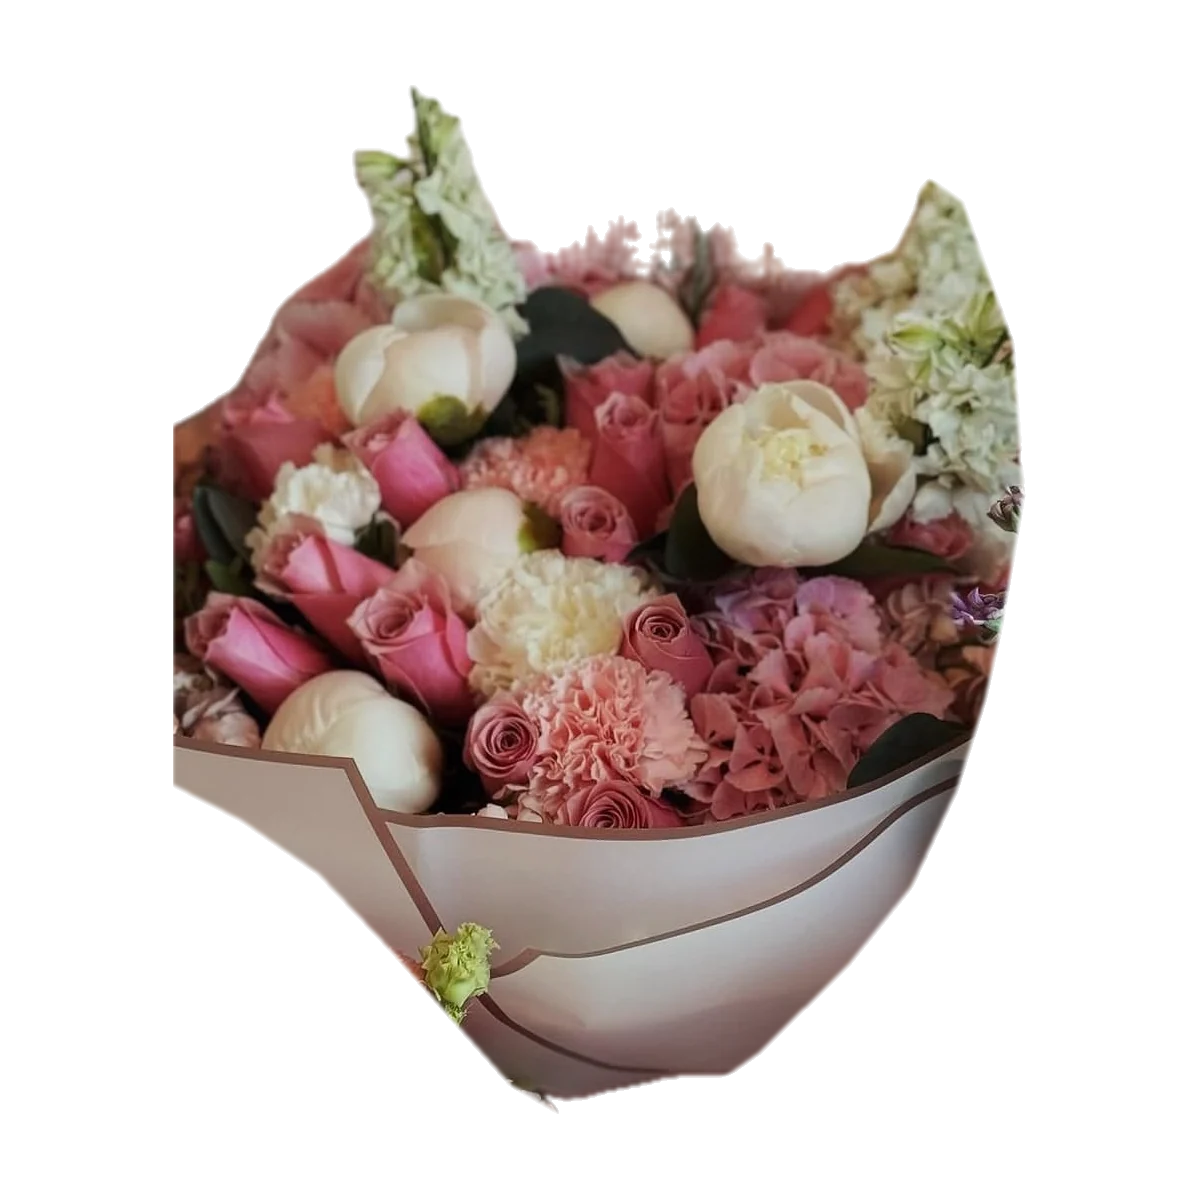
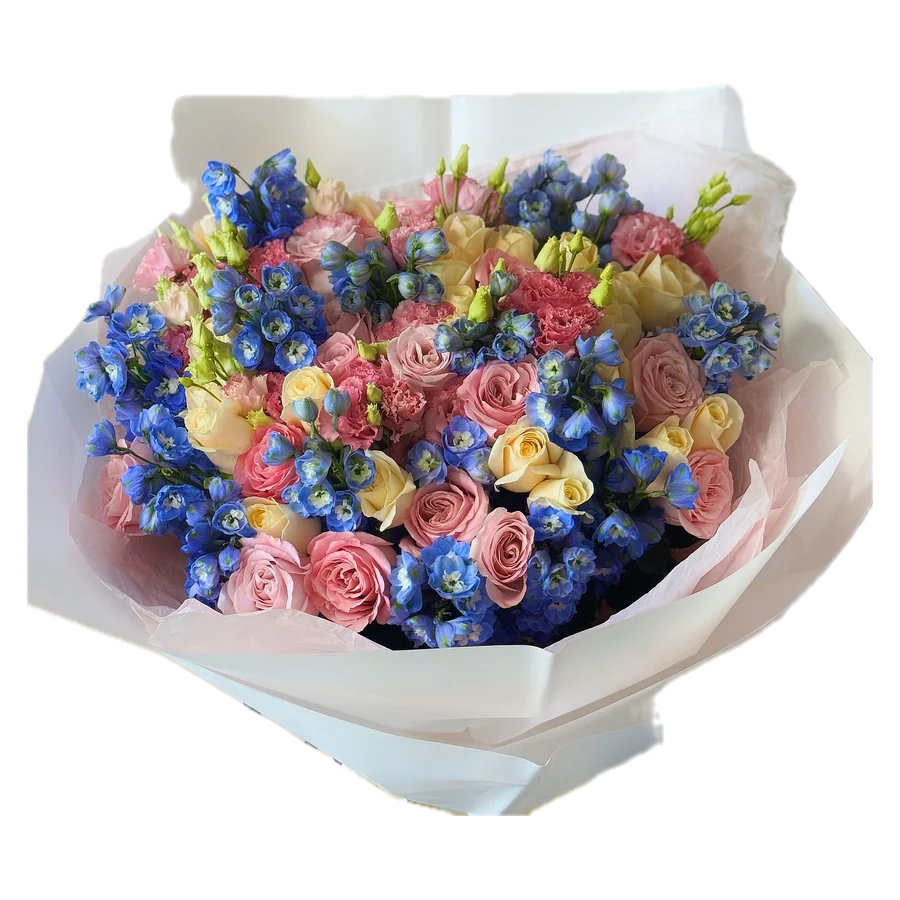
Alle vier Kategoriekacheln freigestellt, „Ukrainian touch“ statt „hand“
Dopamin und Rosen waren die letzten beiden Kacheln aus 1125-px-Bildschirm-
fotos. Beide jetzt freigestellt wie die anderen, und aus den vollen Originalen.

Zwei Anläufe waren nötig. Die Bildschirmfotos selbst freizustellen ging schief:
Bei Dopamin lagen zwei Sträuße im Bild, Vision fasste sie zu einer zerrissenen
Form zusammen; bei Rosen ragte eine abgeschnittene Hand ins Motiv. Der zweite
Versuch mit `dophamin-size-M` scheiterte am selben Problem — auch dort stehen
zwei Sträuße —, und `dunkles-entfernen.py` stanzte zusätzlich die dunklen
Blütenmitten aus. Genommen habe ich am Ende `dophamin-size-XL` und
`paeonienrose-2`: je ein einzelner Strauß vor ruhigem Grund, sauberer Rand,
kein Nachbearbeiten nötig.

Der englische Heldentext sagte „from a small Berlin atelier, with a Ukrainian
hand“. Deutsch, Ukrainisch und Russisch tragen dort die Metapher der
Handschrift („почерк“); im Englischen war daraus die Hand selbst geworden — und
stand als zweites „hand“ im selben Satz wie „Hand-tied bouquets“. Jetzt
„with a Ukrainian touch“: dieselbe Aussage, ohne die Dopplung.

diff --git a/src/i18n/ui.ts b/src/i18n/ui.ts
@@ -730,7 +730,7 @@ export const ui = {
     'home.hero.kicker': 'Floral atelier in Berlin',
     'home.hero.title': 'Flowers that create a moment.',
     'home.hero.text':
-      'Hand-tied bouquets, wedding florals and event styling — from a small Berlin atelier, with a Ukrainian hand.',
+      'Hand-tied bouquets, wedding florals and event styling — from a small Berlin atelier, with a Ukrainian touch.',
     'home.hero.cta': 'Choose a Bouquet',
     'home.hero.cta2': 'Event Decoration Request',
 

diff --git a/HANDOVER.md b/HANDOVER.md
@@ -333,9 +333,9 @@ graue Marke **„Bild folgt“** (`imagePending`) für Stellen, an denen noch ga
 keine Aufnahme existiert — dort wird bewusst auch kein `<img>` erzeugt, damit
 der Browser keine 404 holt.
 
-Die Kategoriekacheln Dopamin und Rosen stammen weiterhin aus Bildschirmfotos
-mit 1125 px. Sie tragen keine Marke mehr; wer sie ersetzen will, findet den
-Hinweis nur noch hier.
+Seit dem 14.08.2026 sind auch Dopamin und Rosen freigestellt — aus den
+hochauflösenden Originalen, nicht mehr aus den 1125-px-Bildschirmfotos. Alle
+vier Kategoriekacheln kommen damit aus derselben Verarbeitung.
 
 > **Endungen prüfen.** Die Fotoskripte schreiben `.webp`; frühere Zwischenstufen
 > waren `.png`. Zeigt eine Referenz auf die falsche Endung, verschwindet das
@@ -513,8 +513,6 @@ folgt“** statt eines Verweises ins Leere:
 - Instagram: Die sechs Kacheln zeigen vorläufig Aufnahmen aus dem Laufwerk und
   verlinken auf das Profil, nicht auf einzelne Beiträge. Sobald Gala eine eigene
   Auswahl exportiert, gehören die Bilder und die `permalink`-Adressen ersetzt.
-- Höher aufgelöste Kategoriekacheln für Dopamin und Rosen (bislang 1125 px,
-  ohne sichtbare Marke).
 - Fotos für Rosen pur und Mono-Hortensie. Beide tragen „Bild folgt“; im
   Laufwerk liegt für keinen von beiden etwas Passendes.
 - Bilder für Strauß, Designerverpackung und Vase im Konfigurator. Korb und
